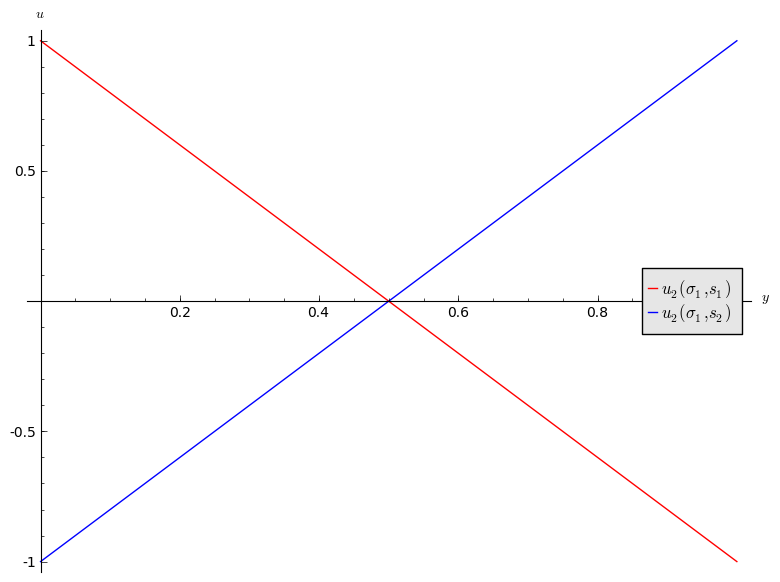
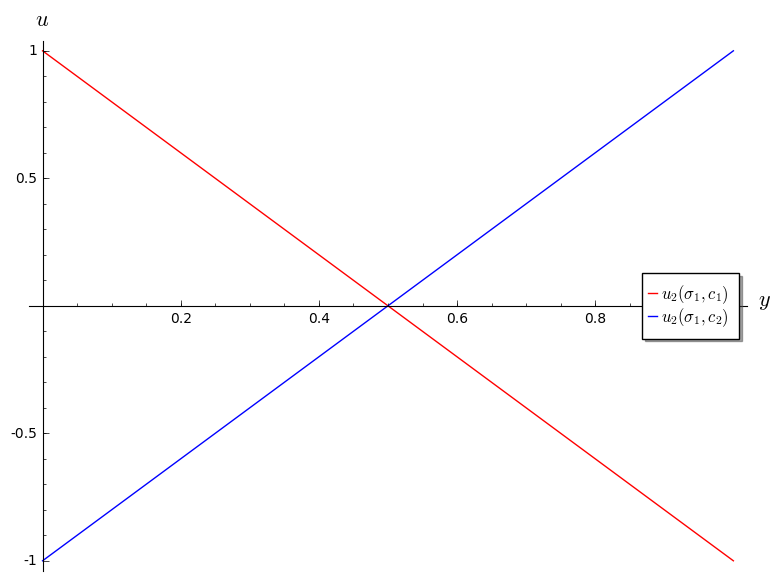
s -> c Ch6

diff --git a/Content/images/L06-img01.tex b/Content/images/L06-img01.tex
@@ -6,10 +6,10 @@
     \draw (-1,-1) rectangle (5,5);
     \draw [dashed] (-1,2) -- (5,2);
     \draw [dashed] (2,-1) -- (2,5);
-    \node (11) [rectangle,draw] at (.5,.5) {$\begin{cases}s^*_1=r_2\\s^*_2=s_1\end{cases}$};
-    \node (12) [rectangle,draw] at (.5,3.5) {$\begin{cases}s^*_1=r_1\\s^*_2=s_1\end{cases}$};
-    \node (21) [rectangle,draw] at (3.5,.5) {$\begin{cases}s^*_1=r_2\\s^*_2=s_2\end{cases}$};
-    \node (22) [rectangle,draw] at (3.5,3.5) {$\begin{cases}s^*_1=r_1\\s^*_2=s_2\end{cases}$};
+    \node (11) [rectangle,draw] at (.5,.5) {$\begin{cases}s^*_1=r_2\\s^*_2=c_1\end{cases}$};
+    \node (12) [rectangle,draw] at (.5,3.5) {$\begin{cases}s^*_1=r_1\\s^*_2=c_1\end{cases}$};
+    \node (21) [rectangle,draw] at (3.5,.5) {$\begin{cases}s^*_1=r_2\\s^*_2=c_2\end{cases}$};
+    \node (22) [rectangle,draw] at (3.5,3.5) {$\begin{cases}s^*_1=r_1\\s^*_2=c_2\end{cases}$};
     \draw [->,color=red] (12) -- (11);
     \draw [->,color=red] (21) -- (22);
     \draw [->,color=blue] (11) -- (21);

diff --git a/Content/Chapter_06-Nash_Equilibria_in_mixed_strategies.md b/Content/Chapter_06-Nash_Equilibria_in_mixed_strategies.md
@@ -38,7 +38,7 @@ Recalling [Chapter 2](Chapter_02-Normal_Form_Games.md) a strategy profile of \\(
 
 We can extend the utility function which maps from the set of pure strategies to \\(\mathbb{R}\\) using _expected payoffs_. For a two player game we have:
 
-$$u_{i}(\sigma_1,\sigma_2)=\sum_{r\in S_1,s\in S_2}\sigma_1(r)\sigma_2(s)u_{i}(r,s)$$
+$$u_{i}(\sigma_1,\sigma_2)=\sum_{r\in S_1,c\in S_2}\sigma_1(r)\sigma_2(s)u_{i}(r,c)$$
 
 ## Obtaining equilibria
 
@@ -61,9 +61,9 @@ shown:
 
 If we assume that player 1 plays a mixed strategy \\(\sigma_1=(x,1-x)\\) we have:
 
-$$u_2(\sigma_1,s_1)=1-2x$$
+$$u_2(\sigma_1,c_1)=1-2x$$
 and
-$$u_2(\sigma_1,s_2)=2x-1$$
+$$u_2(\sigma_1,c_2)=2x-1$$
 
 shown:
 
@@ -71,8 +71,8 @@ shown:
 
 Thus we have:
 
-1. If \\(x<1/2\\) then \\(s_1\\) is a best response for player 2.
-2. If \\(x>1/2\\) then \\(s_2\\) is a best response for player 2.
+1. If \\(x<1/2\\) then \\(c_1\\) is a best response for player 2.
+2. If \\(x>1/2\\) then \\(c_2\\) is a best response for player 2.
 3. If \\(x=1/2\\) then player 2 is indifferent.
 
 Let us draw both best responses on a single diagram, indicating the best responses in each quadrant. The arrows show the deviation indicated by the best responses.
@@ -159,7 +159,7 @@ Thus we have found player 2's Nash equilibrium strategy by finding the strategy 
 
 $$
 \begin{aligned}
-u_2(\sigma_1,s_1)&=u_2(\sigma_1,s_2)\\
+u_2(\sigma_1,c_1)&=u_2(\sigma_1,c_2)\\
 -x+(1-x)&=x-(1-x)\\
 x&=1/2
 \end{aligned}
